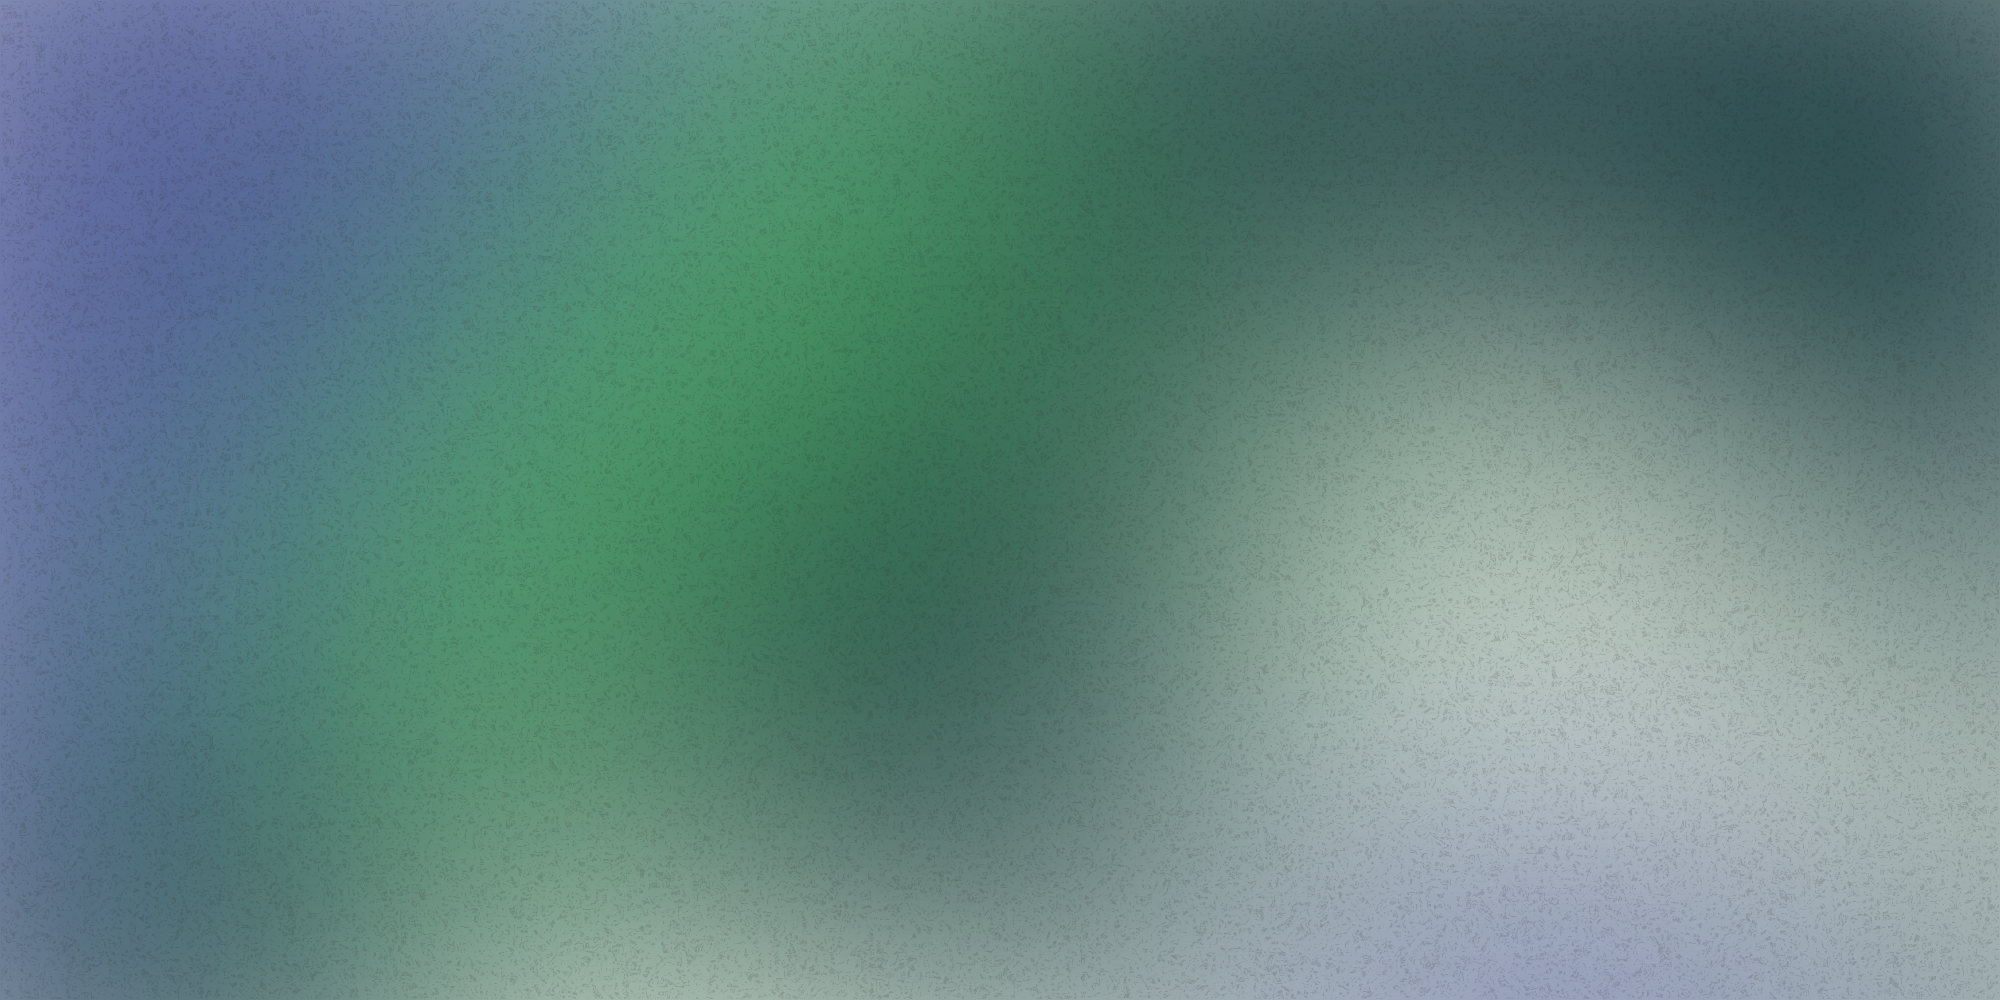
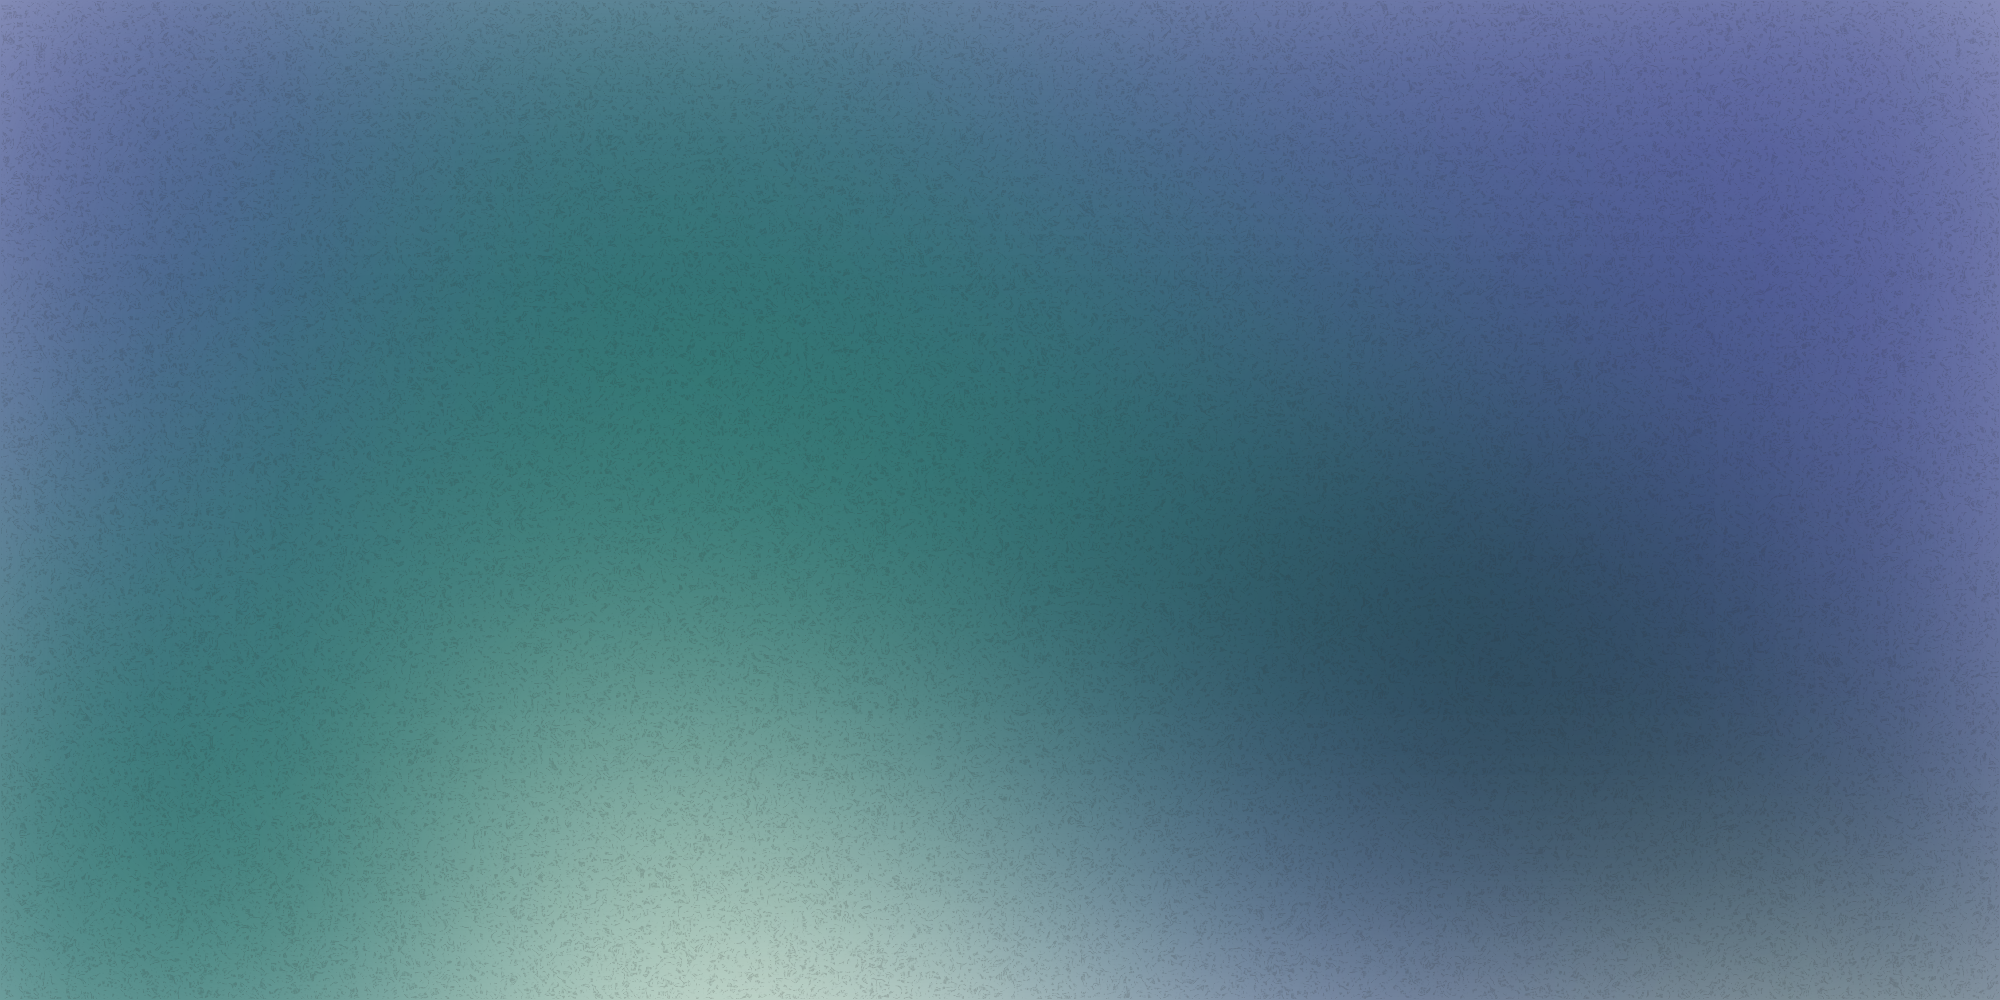
Front page WIP

diff --git a/src/app/page.js b/src/app/page.js
@@ -1,61 +1,104 @@
 import Image from "next/image";
+import BackgroundChanger from "./components/backgroundchanger";
 import { Montagu_Slab } from "next/font/google";
 import { Monda } from "next/font/google";
+
 import GithubIcon from "/public/icons/github.svg";
 import MailIcon from "/public/icons/mail.svg";
 import LinkedinIcon from "/public/icons/linkedin.svg";
+import ArrowDown from "/public/icons/arrowdown.svg";
+import FigmaIcon from "/public/stackicons/figma.svg";
+import GitIcon from "/public/stackicons/git.svg";
+import JsIcon from "/public/stackicons/js.svg";
+import MysqlIcon from "/public/stackicons/mysql.svg";
+import NextIcon from "/public/stackicons/next.svg";
+import PhpIcon from "/public/stackicons/php.svg";
+import ReactIcon from "/public/stackicons/react.svg";
+import TailwindIcon from "/public/stackicons/tailwind.svg";
+import TrelloIcon from "/public/stackicons/trello.svg";
+import NodeIcon from "/public/stackicons/node.svg";
 
 const montagu = Montagu_Slab({ subsets: ["latin"] });
 const monda = Monda({ subsets: ["latin"], weight: ["400"] });
 
 export default function Home() {
     return (
-        <main className="relative  text-white">
-            <div className={montagu.className}>
-                <h1 className="text-center text-9xl mx-20 mt-20 mb-20">Victor Lobbé</h1>
-            </div>
-
-            <hr className="w-full h-1/2 bg-white "></hr>
-
-            <div className={monda.className}>
-                <div className="mx-60 my-12">
-                    <p className="text-2xl leading-10">
-                        Développeur web à la recherche d'une entreprise pour réaliser une alternance d'un an en tant que Concepteur
-                        Développeur d'Application
-                    </p>
-                    <p className="text-2xl mt-5">
-                        Rythme : <span className="font-bold">3 semaines entreprise / 1 semaine école</span>
-                    </p>
-                </div>
-
-                <hr className="w-full h-1/2 bg-white "></hr>
-
-                <div className={monda.className}>
-                    <p className="text-lg mx-60 my-12">
-                        Je suis curieux et créatif. Je passe beaucoup de temps à me tenir au courant des dernières tendances, des
-                        technologies actuelles, et des innovations en matière de design. Même si j'adore apprendre de nouveaux langages, je
-                        veux vraiment me spécialiser davantage.
-                    </p>
+        <BackgroundChanger>
+            <main className="relative  text-white">
+                <div className={montagu.className}>
+                    <h1 className="text-center text-9xl mx-20 mt-20 mb-20">Victor Lobbé</h1>
                 </div>
 
                 <hr className="w-full h-1/2 bg-white"></hr>
 
                 <div className={monda.className}>
-                    <p className="font-bold text-lg mx-60  my-12">Tool Stack</p>
-                </div>
+                    <div className="mx-60 my-12">
+                        <p className="text-2xl leading-10">
+                            Développeur web à la recherche d'une entreprise pour réaliser une alternance d'un an en tant que Concepteur
+                            Développeur d'Application
+                        </p>
+                        <p className="text-2xl mt-5">
+                            Rythme : <span className="font-bold">3 semaines entreprise / 1 semaine école</span>
+                        </p>
+                    </div>
 
-                <div className="flex  gap-5 absolute right-10 -top-14">
-                    <a href="https://www.linkedin.com/in/victor-lobb%C3%A9-999848296/" target="blank">
-                        <Image src={LinkedinIcon} alt="Linkedin" height={33} width={33}></Image>
-                    </a>
-                    <a href="https://github.com/DiscoMajor" target="blank">
-                        <Image src={GithubIcon} alt="GitHub" height={33} width={33}></Image>
-                    </a>
-                    <a href="mailto:victorlobbe@gmail.com">
-                        <Image src={MailIcon} alt="Mail" height={33} width={33}></Image>
-                    </a>
+                    <hr className="w-full h-1/2 bg-white "></hr>
+
+                    <div className={monda.className}>
+                        <p className="text-lg mx-60 my-12">
+                            Je suis curieux et créatif. Je passe beaucoup de temps à me tenir au courant des dernières tendances, des
+                            technologies actuelles, et des innovations en matière de design. Même si j'adore apprendre de nouveaux langages,
+                            je veux vraiment me spécialiser davantage.
+                        </p>
+                    </div>
+
+                    <hr className="w-full h-1/2 bg-white"></hr>
+
+                    <div className={monda.className}>
+                        <p className="font-bold text-lg mx-60  my-12">Tool Stack</p>
+
+                        <div className="">
+                            <div className="flex">
+                                <Image src={JsIcon} alt="Js" height={74} width={74}></Image>
+
+                                <Image src={GitIcon} alt="Git" height={74} width={74}></Image>
+
+                                <Image src={ReactIcon} alt="ReactJs" height={74} width={74}></Image>
+
+                                <Image src={NextIcon} alt="NextJs" height={74} width={74}></Image>
+
+                                <Image src={TrelloIcon} alt="Linkedin" height={74} width={74}></Image>
+
+                                <Image src={MysqlIcon} alt="MySql" height={74} width={74}></Image>
+
+                                <Image src={TailwindIcon} alt="Tailwind" height={74} width={74}></Image>
+
+                                <Image src={PhpIcon} alt="Php" height={74} width={74}></Image>
+
+                                <Image src={FigmaIcon} alt="Figma" height={74} width={74}></Image>
+
+                                <Image src={NodeIcon} alt="Figma" height={74} width={74}></Image>
+                            </div>
+                        </div>
+                    </div>
+
+                    <div className="flex  gap-5 absolute right-10 -top-14">
+                        <a href="https://www.linkedin.com/in/victor-lobb%C3%A9-999848296/" target="blank">
+                            <Image src={LinkedinIcon} alt="Linkedin" height={33} width={33}></Image>
+                        </a>
+                        <a href="https://github.com/DiscoMajor" target="blank">
+                            <Image src={GithubIcon} alt="GitHub" height={33} width={33}></Image>
+                        </a>
+                        <a href="mailto:victorlobbe@gmail.com">
+                            <Image src={MailIcon} alt="Mail" height={33} width={33}></Image>
+                        </a>
+                    </div>
+
+                    <div className="absolute">
+                        <Image src={ArrowDown} alt="ArrowDown" height={33} width={33}></Image>
+                    </div>
                 </div>
-            </div>
-        </main>
+            </main>
+        </BackgroundChanger>
     );
 }

diff --git a/src/app/components/backgroundchanger.js b/src/app/components/backgroundchanger.js
@@ -1,0 +1,68 @@
+"use client";
+import { useState, useEffect } from "react";
+
+const backgrounds = [
+    "url('./gradient.png')",
+    "url('./gradient3.png')",
+    "url('./gradient4.png')",
+    "url('./gradient5.png')",
+    "url('./gradient6.png')",
+    "url('./gradient7.png')",
+    "url('./gradient8.png')",
+    "url('./gradient9.png')",
+];
+
+const getRandomBackground = (currentBackground) => {
+    let newBackground;
+    do {
+        newBackground = backgrounds[Math.floor(Math.random() * backgrounds.length)];
+    } while (newBackground === currentBackground);
+    return newBackground;
+};
+
+const BackgroundChanger = ({ children }) => {
+    const [background, setBackground] = useState(getRandomBackground());
+
+    const changeInterval = 5000;
+
+    useEffect(() => {
+        const intervalId = setInterval(() => {
+            setBackground((prevBackground) => getRandomBackground(prevBackground));
+        }, changeInterval);
+
+        return () => clearInterval(intervalId);
+    }, []);
+
+    return (
+        <div style={styles.wrapper}>
+            <div style={{ ...styles.background, backgroundImage: background }} />
+            <div style={styles.content}>{children}</div>
+        </div>
+    );
+};
+
+const styles = {
+    wrapper: {
+        position: "relative",
+        width: "100%",
+    },
+    background: {
+        position: "fixed",
+        top: 0,
+        left: 0,
+        width: "100%",
+        height: "100%",
+        backgroundSize: "cover",
+        backgroundPosition: "center",
+        transition: "background-image 1s ease-in-out",
+        zIndex: -1,
+    },
+    content: {
+        position: "relative",
+        zIndex: 1,
+        width: "100%",
+        minHeight: "100vh",
+    },
+};
+
+export default BackgroundChanger;

diff --git a/tailwind.config.js b/tailwind.config.js
@@ -6,6 +6,28 @@ module.exports = {
             backgroundImage: {
                 meshgradient: "url('/gradient3.png')",
             },
+            width: {
+                600: "600px",
+            },
+        },
+
+        screens: {
+            xs: "412px",
+
+            sm: "640px",
+            // => @media (min-width: 640px) { ... }
+
+            md: "768px",
+            // => @media (min-width: 768px) { ... }
+
+            lg: "1024px",
+            // => @media (min-width: 1024px) { ... }
+
+            xl: "1280px",
+            // => @media (min-width: 1280px) { ... }
+
+            "2xl": "1536px",
+            // => @media (min-width: 1536px) { ... }
         },
     },
     plugins: [],

diff --git a/src/app/layout.js b/src/app/layout.js
@@ -11,7 +11,7 @@ export const metadata = {
 export default function RootLayout({ children }) {
     return (
         <html lang="en">
-            <body className="min-h-screen bg-meshgradient bg-cover">{children}</body>
+            <body>{children}</body>
         </html>
     );
 }

diff --git a/src/app/globals.css b/src/app/globals.css
@@ -2,12 +2,6 @@
 @tailwind components;
 @tailwind utilities;
 
-:root {
-}
-
-body {
-}
-
 @layer utilities {
     .text-balance {
         text-wrap: balance;
@@ -17,3 +11,5 @@ body {
 .montagu-slab {
     font-family: "Montagu Slab", serif;
 }
+
+/* Infinite :horizontal scroller */
